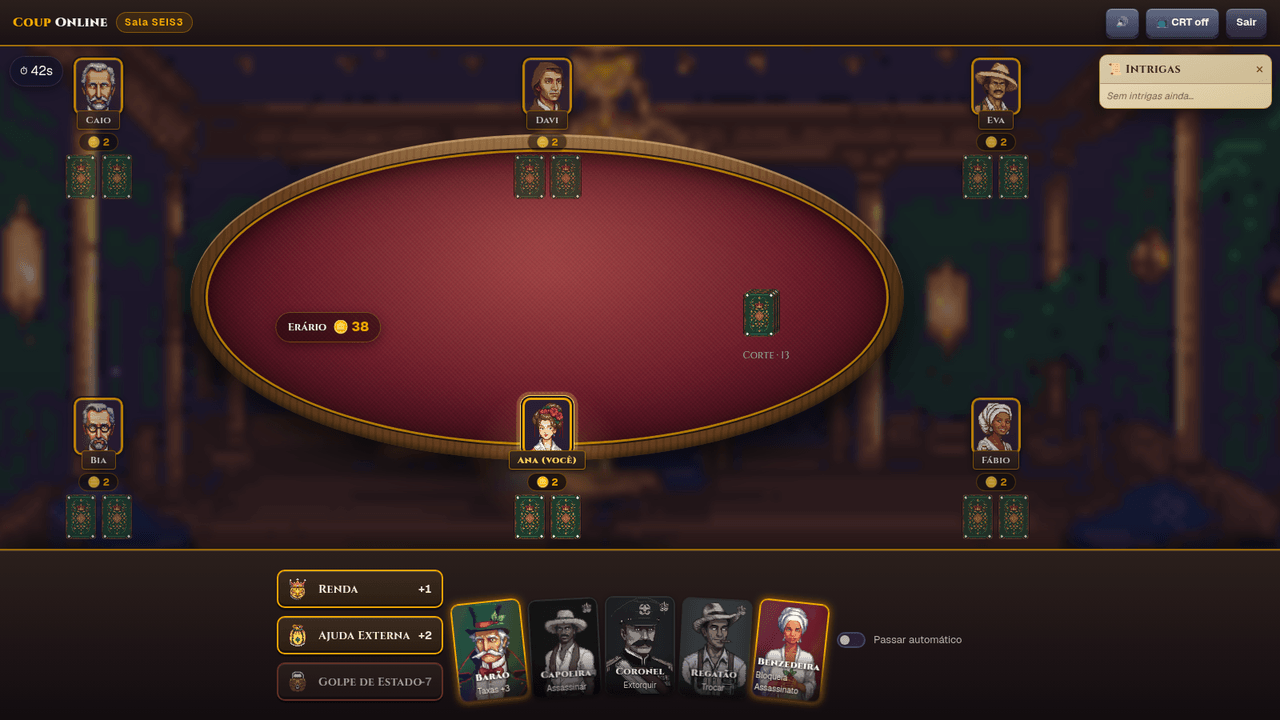
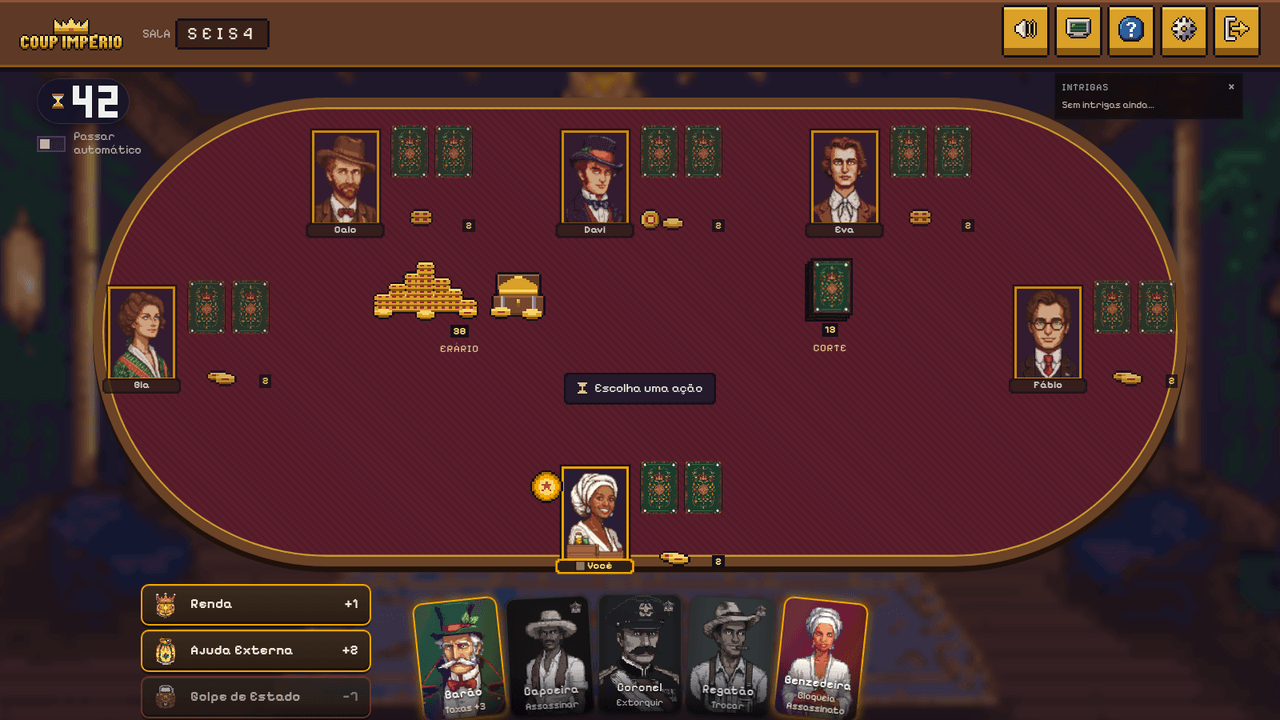
docs(readme): prints da mesa nova e texto da v3.1; plano marca o release (P29)

diff --git a/README.md b/README.md
@@ -31,12 +31,12 @@ arte pixel art, animações de baralho, efeitos sonoros e partidas em tempo real
 
 <table>
 <tr>
-<td width="50%"><img src="docs/img/mesa.png" alt="Mesa de jogo com uma carta declarada no centro"><br><sub><b>A jogada acontece na mesa:</b> a carta alegada fica virada no centro, com o tempo restante. Quem pode reagir vê os selos <i>Contestar</i> e <i>Passar</i>.</sub></td>
-<td width="50%"><img src="docs/img/mesa-6-jogadores.png" alt="Mesa com 6 jogadores"><br><sub><b>De 2 a 6 jogadores</b> numa mesa de veludo, cada um com seu retrato de convidado do baile.</sub></td>
+<td width="50%"><img src="docs/img/mesa.png" alt="Mesa de jogo com o balão da jogada sobre o assento de quem declarou"><br><sub><b>A jogada acontece na mesa:</b> um balão sobre o assento mostra o que foi declarado, a legenda no centro diz de quem a mesa espera e a ampulheta conta o tempo. Quem pode reagir vê os selos <i>Contestar</i> e <i>Passar</i>.</sub></td>
+<td width="50%"><img src="docs/img/mesa-6-jogadores.png" alt="Mesa com 6 jogadores"><br><sub><b>De 2 a 6 jogadores</b> numa mesa de veludo que se ajusta a qualquer tela, cada um com seu retrato de convidado do baile e a pilha de fichas em pixel art.</sub></td>
 </tr>
 <tr>
 <td width="50%"><img src="docs/img/lobby.png" alt="Sala de espera"><br><sub><b>Sala de espera:</b> compartilhe o link, ajuste os tempos da partida e o host inicia.</sub></td>
-<td width="50%"><img src="docs/img/vitoria.png" alt="Tela de vitória com prêmios"><br><sub><b>Fim de partida:</b> prêmios como <i>Mentiroso do ano</i> e <i>Olho de lince</i>, e revanche em um clique.</sub></td>
+<td width="50%"><img src="docs/img/vitoria.png" alt="Tela de vitória com prêmios"><br><sub><b>Fim de partida:</b> prêmios como <i>Mentiroso do ano</i> e <i>Olho de lince</i>, placar e títulos da noite, e revanche em um clique (ou <code>Enter</code>).</sub></td>
 </tr>
 </table>
 
@@ -85,10 +85,19 @@ As regras completas (timers, "Perigo Duplo do Assassino", casos especiais) estã
 - 🃏 **Mesa viva:** distribuição do baralho, moedas voando entre o Erário e os jogadores,
   carta que vira na contestação (e a mesa treme quando é blefe), inclinação 3D e brilho
   *foil* nas cartas que são suas.
+- 🪙 **Mesa sem texto sobrando:** moedas como pilhas de fichas em pixel art (com variantes
+  sorteadas a cada partida), Erário com baú, baralho da Corte em monte, balão da jogada sobre o
+  assento, retrato com moldura que racha a cada influência perdida e uma legenda curta no centro.
+  A mesa escala de forma contínua e cabe de 1280x720 a 1920x1080 sem rolagem.
+- 🎨 **Aba de Aparência:** 4 fontes pixel, 2 estilos (madeira e latão ou pergaminho e tinta) e
+  3 jeitos de segurar a mão (mesa, cavalete ou bandeja).
+- 📜 **Colinha** das regras que abre como uma carta (`?`) e **modo espectador** para quem chega
+  no meio da partida.
 - 🔊 **Áudio sintetizado** no navegador (sem arquivos de som) com botão de mudo.
 - ⏱ **Fluidez:** botão *Passar*, timeouts em todas as fases, relógio controlado pelo servidor,
   **reconexão** sem login (F5 no meio da partida mantém seu lugar e sua mão) e **revanche**.
-- 🏆 **Estatísticas e prêmios** ao fim de cada partida.
+- 🏆 **Estatísticas e prêmios** ao fim de cada partida e **placar da noite** com títulos, que
+  liga uma partida à outra enquanto a sala estiver aberta.
 - 🔒 **Sem trapaça por construção:** o servidor é a única fonte da verdade e o navegador
   **nunca** recebe as cartas dos outros — nem escondidas no JSON.
 - 🧪 **Testado em três níveis:** unitário, integração com servidor real e E2E no Chrome.
@@ -123,8 +132,8 @@ npm start            # NODE_ENV=production, porta via PORT (padrão 3000)
 | `npm run test:e2e` | Faz o build e roda os testes no Chrome real |
 | `npx tsx tools/readme-shots.ts` | Regenera as imagens deste README (precisa de build) |
 
-Páginas de revisão visual (só para desenvolvimento): `/dev/mesa`, `/dev/selos`, `/dev/cartas`
-e `/dev/audio`.
+Páginas de revisão visual (só para desenvolvimento): `/dev/mesa`, `/dev/kit`, `/dev/colinha`,
+`/dev/selos`, `/dev/cartas` e `/dev/audio`.
 
 ## Testes
 
@@ -148,7 +157,9 @@ src/
   server/                 # socket.ts (eventos, timers, reconexão) e rooms.ts (salas em memória)
   lib/game/               # engine.ts (regras — fonte da verdade), cards.ts, deck.ts, awards.ts
   lib/audio/              # efeitos e trilha sintetizados (Web Audio)
-  components/game/        # mesa, cartas, mão, selos, animações, feed de Intrigas
+  components/game/        # mesa, cartas, mão, selos, fichas, animações, feed de Intrigas
+  components/game/fx/     # motor de cenas (animações que não podem vazar informação)
+  components/ui/          # kit de UI pixel (painéis, botões, Aparência)
   types/                  # tipos de domínio e de socket
 tests/e2e/                # testes no navegador
 tools/art/                # pipeline de geração e pós-processamento de pixel art
@@ -192,19 +203,23 @@ Coup é um jogo de terceiros: este é um projeto não oficial de fãs, sem fins 
 | [`docs/DIRECAO_CRIATIVA.md`](./docs/DIRECAO_CRIATIVA.md) | Universo, personagens, estilo e paleta |
 | [`docs/DESIGN_MESA_V2.md`](./docs/DESIGN_MESA_V2.md) | Desenho da mesa v2 (dock, selos, jogada na mesa) |
 | [`docs/AUDIO.md`](./docs/AUDIO.md) | Efeitos e trilha |
-| [`docs/ROADMAP.md`](./docs/ROADMAP.md) | O que foi feito e o que vem a seguir |
+| [`docs/PLANO_V3.md`](./docs/PLANO_V3.md) | Plano da v3 (visual, mesa nova, retenção) |
+| [`docs/VIDA_E_BLEFE.md`](./docs/VIDA_E_BLEFE.md) | Animações e efeitos da v3.2 (dano, contestação, exílio) |
+| [`docs/plano/00-MESTRE.md`](./docs/plano/00-MESTRE.md) | Plano mestre por subplanos, com o que já foi feito |
+| [`docs/ROADMAP.md`](./docs/ROADMAP.md) | Roadmap da v2 (histórico) |
 | [`AGENTS.md`](./AGENTS.md) / [`CLAUDE.md`](./CLAUDE.md) | Contexto, regras do projeto e política de testes |
 
 ## Status e próximos passos
 
-Versão **v2**: jogo completo e jogável de ponta a ponta. Ainda há cantos não acabados:
+Versão **v3.1** (mesa nova): jogo completo e jogável de ponta a ponta, com a mesa redesenhada
+em pixel art. A próxima é a **v3.2**, das animações:
 
-- Escolha do retrato no lobby e balões de fala dos personagens.
-- Ícones de *Contestar* e *Trocar* em pixel art (hoje há emoji no lugar).
-- Os sons foram medidos por teste automático, mas ainda não ouvidos e ajustados por ouvido humano.
-- Indicador de "ausente" no assento, limite de taxa de eventos e versão para celular.
+- Duelo da contestação com suspense, exílio de barco e reações de dano no retrato, sem que
+  nenhuma animação revele carta ou blefe.
+- Áudio novo (gongo, estilhaço, canhão) e falas dos personagens.
+- Ainda faltam: escolha do retrato no lobby, limite de taxa de eventos e versão para celular.
 
-Mais em [`docs/ROADMAP.md`](./docs/ROADMAP.md).
+Mais em [`docs/plano/00-MESTRE.md`](./docs/plano/00-MESTRE.md).
 
 ## Sobre o desenvolvimento assistido por IA
 

diff --git a/docs/plano/00-MESTRE.md b/docs/plano/00-MESTRE.md
@@ -59,7 +59,7 @@
   - [x] P27.S1 Preferências de aparência puras (fonte, estilo, dock) com padrão, validação e storage protegido
   - [x] P27.S2 Tokens por tema: estilo A (madeira e latão) e B (pergaminho e tinta) como conjuntos de variáveis
   - [x] P27.S3 As 4 fontes pixel carregadas sem pesar (preload só da escolhida)
-  - [ ] P27.S4 Aba de configurações no HUD (abre como peça do kit) com prévia ao vivo
+  - [x] P27.S4 Aba de configurações no HUD (abre como peça do kit) com prévia ao vivo
   - [x] P27.S5 Dock em 3 variações selecionáveis (cavalete, mão sobre a mesa, bandeja) sobre as 3 zonas fixas
   - [ ] P27.S6 Gancho para a linha de efeitos (completo, reduzido, desligado) do P11.S6
 
@@ -212,13 +212,13 @@
 - [ ] **[P28](planos/P28-release-v3-0.md) Release v3.0: visual novo (mesclada na main em 18/10/2026)** · onda 3 · risco alto · `[H]`
   - [ ] P28.S1 E2E completo (feito: 68/68)
   - [ ] P28.S2 Merge na main (feito)
-  - [ ] P28.S3 Tag v3.0, push e deploy (Alexandre)
+  - [x] P28.S3 Tag v3.0, push e deploy (Alexandre)
   - [ ] P28.S4 Partida de teste com amigos no ar
-- [ ] **[P29](planos/P29-release-v3-1.md) Release v3.1: mesa nova** · onda 3 · risco alto · `[H]`
-  - [ ] P29.S1 E2E completo e layoutIssues nas 4 resoluções (só com pedido do Alexandre)
-  - [ ] P29.S2 Teste dos 3 segundos em 1280x720 e 1920x1080
-  - [ ] P29.S3 Partida de teste com amigos
-  - [ ] P29.S4 Merge na main, tag v3.1 e deploy (aprovação explícita)
+- [x] **[P29](planos/P29-release-v3-1.md) Release v3.1: mesa nova (mesclada na main e com tag em 19/10/2026)** · onda 3 · risco alto · `[H]`
+  - [x] P29.S1 E2E completo e layoutIssues nas 4 resoluções (79/79 em `d779828`)
+  - [x] P29.S2 Teste dos 3 segundos em 1280x720 e 1920x1080 (Alexandre)
+  - [ ] P29.S3 Partida de teste com amigos (no ar, depois do deploy)
+  - [x] P29.S4 Merge na main, tag v3.1 e deploy (aprovação explícita)
 
 ## Grafo de dependências
 

diff --git a/docs/plano/00-REGISTRO.md b/docs/plano/00-REGISTRO.md
@@ -82,3 +82,10 @@ Formato:
 - Decisões: P09.S3 não move as reações (zonas fixas e atalhos; ideia no backlog pós-v3). "Desmoronar" das fichas virou pilha que tomba e apaga, sem voo ao Erário: a engine não devolve as moedas de quem sai, e a animação não pode mentir sobre o estado. P21.S5 já existia (`ChuvaDeMoedas`).
 - Achado: o commit do dock (P09.S5) quebrou o teste de migração de escala (`minHeight: 44` em px); corrigido em `f2f0020`. Lição: rodar `npm test` em toda entrega, mesmo quando o E2E filtrado passa.
 - Pendente para a v3.1: P07.S2 (curadoria, gate humano) e P29 (E2E completo, teste dos 3 s, partida com amigos, merge e tag).
+
+### 2026-10-19 · P29 · release v3.1 (mesa nova)
+- Verificação: `npm test` 542/542, `tsc` e `eslint` limpos em `d779828`; E2E completo 79/79 no mesmo commit (não reexecutado no release, a pedido do Alexandre). Teste dos 3 segundos feito pelo Alexandre, que liberou o lançamento.
+- README com prints novos (`tools/readme-shots.ts` contra o build de produção) e texto da v3.1; `docs/ROADMAP.md` marcado como histórico da v2.
+- Merge `--no-ff` de `feat/v3.1-mesa-nova` na `main`, tag `v3.1` e push (deploy automático no Render). Branch apagada (local e remota).
+- Contagem de testes 546 para 542: a mesa portada do mockup trocou `escalaDaTela` (degraus) por `escalaDoPalco` (escala contínua) e removeu `ringOffset`; os testes antigos saíram com o código.
+- Pendente: P29.S3 (partida com amigos no ar). Próxima release: v3.2 (animações, P26).

diff --git a/docs/ROADMAP.md b/docs/ROADMAP.md
@@ -1,5 +1,7 @@
 # Roadmap v2 — Arte, áudio e fluidez (plano executável)
 
+> **Histórico da v2.** A v3 seguiu `docs/PLANO_V3.md` e o plano mestre em `docs/plano/00-MESTRE.md` (v3.0 e v3.1 lançadas; v3.2, das animações, em andamento).
+
 Base: tag `v1` (commit `14cfb45`). Este plano substitui o roadmap v1.
 
 ## Testes (política no `CLAUDE.md`)
